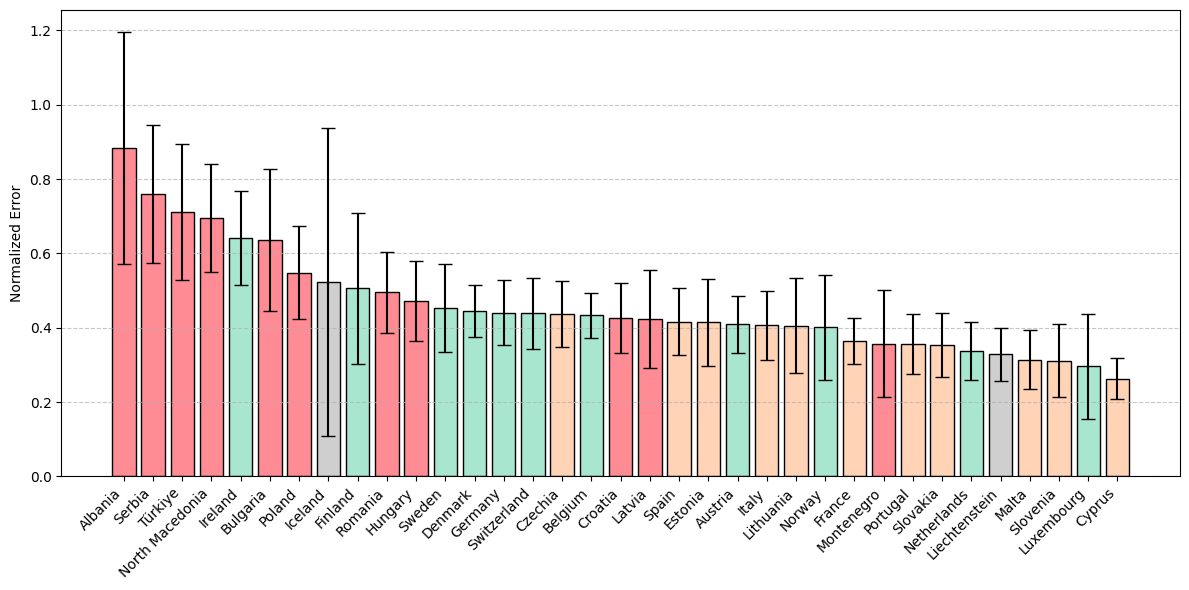
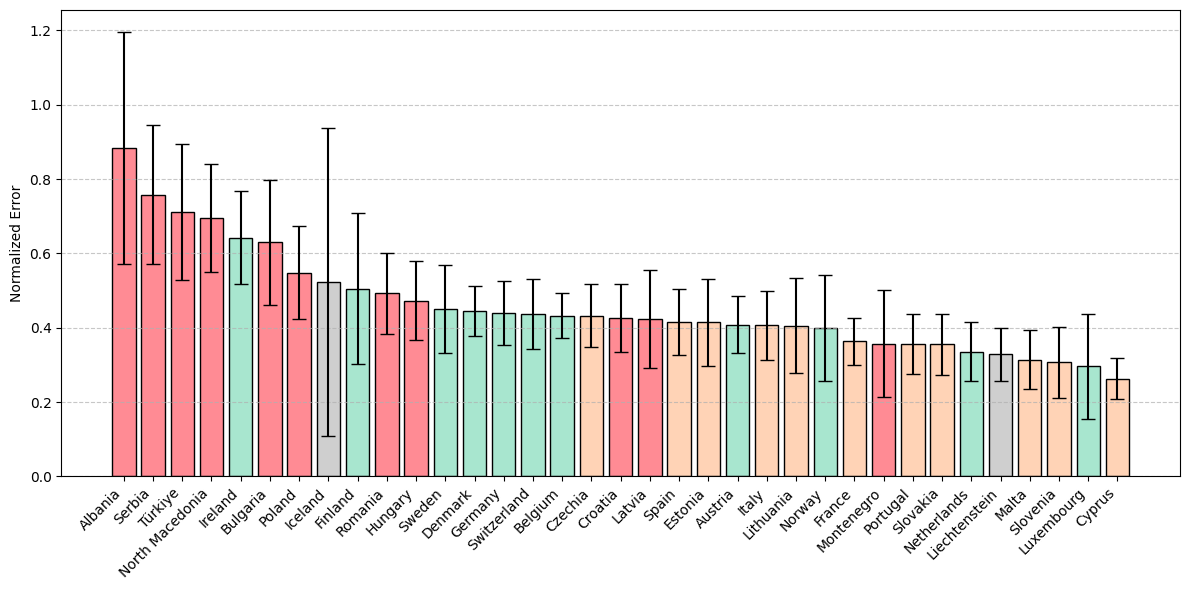
fix prompt povrety: all results have been re-computed

diff --git a/2_llm_prediction_transformers.py b/2_llm_prediction_transformers.py
@@ -29,19 +29,19 @@ tqdm.pandas()
 
 data_dir = "./output"
 eurostat_data_files = [
-    # {
-    #     "indicator": "income",
-    #     "path": f"{data_dir}/eurostat_income_2017.csv",
-    #     "complete_year": "2017",
-    #     "unit": "EUR_HAB"
-    # },
-    # {
-    #     "indicator": "pop_density",
-    #     "path": f"{data_dir}/eurostat_pop_density_2018.csv",
-    #     "complete_year": "2018",
-    #     "unit": "PER_KM2",
-    #     "nan": ":", # null value are ":" and not empty cell
-    # },
+    {
+        "indicator": "income",
+        "path": f"{data_dir}/eurostat_income_2017.csv",
+        "complete_year": "2017",
+        "unit": "EUR_HAB"
+    },
+    {
+        "indicator": "pop_density",
+        "path": f"{data_dir}/eurostat_pop_density_2018.csv",
+        "complete_year": "2018",
+        "unit": "PER_KM2",
+        "nan": ":", # null value are ":" and not empty cell
+    },
     {
         "indicator": "poverty",
         "path": f"{data_dir}/eurostat_poverty_2022.csv",
@@ -49,12 +49,12 @@ eurostat_data_files = [
         "unit": "PC",
         "nan": ":"
     },
-    # {
-    #     "indicator": "age_index",
-    #     "path": f"{data_dir}/eurostat_age_index_2021.csv",
-    #     "complete_year": "2021",
-    #     "unit": "NR"
-    # }
+    {
+        "indicator": "age_index",
+        "path": f"{data_dir}/eurostat_age_index_2021.csv",
+        "complete_year": "2021",
+        "unit": "NR"
+    }
 ]
 
 def prediction(NUTS_ID, country, indicator, year):
@@ -419,33 +419,24 @@ if __name__ == "__main__":
 
         # Absolute
         file_path = Path(f'./output/bash/{indicator}_{year}_nuts_llm_{model_short_name}_absolute.csv')
-        # if file_path.exists():
-        #     print("\t Absolute: already processed")
-        # else:
-        #     df[[f"{indicator}_absolute_predicted", f"{indicator}_absolute_deviation", f"{indicator}_absolute_logprobs", f"{indicator}_absolute_logprobs_deviation"]] = df.progress_apply(lambda row: average_prediction(row, indicator, year), axis=1).apply(pd.Series)
-        #     try :
-        #         df.to_csv(f'./output/bash/{indicator}_{year}_nuts_llm_{model_short_name}_absolute.csv')
-        #     except:
-        #         df.to_csv(f'./output/bash/{indicator}_{year}_nuts_llm_error_on_name.csv')
-        df[[f"{indicator}_absolute_predicted", f"{indicator}_absolute_deviation", f"{indicator}_absolute_logprobs", f"{indicator}_absolute_logprobs_deviation"]] = df.progress_apply(lambda row: average_prediction(row, indicator, year), axis=1).apply(pd.Series)
-        try :
-            df.to_csv(f'./output/bash/{indicator}_{year}_nuts_llm_{model_short_name}_absolute.csv')
-        except:
-            df.to_csv(f'./output/bash/{indicator}_{year}_nuts_llm_error_on_name.csv')
+        if file_path.exists():
+            print("\t Absolute: already processed")
+        else:
+            df[[f"{indicator}_absolute_predicted", f"{indicator}_absolute_deviation", f"{indicator}_absolute_logprobs", f"{indicator}_absolute_logprobs_deviation"]] = df.progress_apply(lambda row: average_prediction(row, indicator, year), axis=1).apply(pd.Series)
+            try :
+                df.to_csv(f'./output/bash/{indicator}_{year}_nuts_llm_{model_short_name}_absolute.csv')
+            except:
+                df.to_csv(f'./output/bash/{indicator}_{year}_nuts_llm_error_on_name.csv')
 
         # Relative
         file_path = Path(f'./output/bash/{indicator}_{year}_nuts_llm_{model_short_name}_relative.csv')
-        # if file_path.exists():
-        #     print("\t Relative: already processed")
-        # else:
-        #     df[[f"{indicator}_relative_predicted", f"{indicator}_relative_deviation", f"{indicator}_relative_logprobs", f"{indicator}_relative_logprobs_deviation"]] = df.progress_apply(lambda row: average_relative_prediction(row, indicator, year), axis=1).apply(pd.Series)
-        #     try :
-        #         df.to_csv(f'./output/bash/{indicator}_{year}_nuts_llm_{model_short_name}_relative.csv')
-        #     except:
-        #         df.to_csv(f'./output/bash/{indicator}_{year}_nuts_llm_error_on_name.csv')
+        if file_path.exists():
+            print("\t Relative: already processed")
+        else:
+            df[[f"{indicator}_relative_predicted", f"{indicator}_relative_deviation", f"{indicator}_relative_logprobs", f"{indicator}_relative_logprobs_deviation"]] = df.progress_apply(lambda row: average_relative_prediction(row, indicator, year), axis=1).apply(pd.Series)
+            try :
+                df.to_csv(f'./output/bash/{indicator}_{year}_nuts_llm_{model_short_name}_relative.csv')
+            except:
+                df.to_csv(f'./output/bash/{indicator}_{year}_nuts_llm_error_on_name.csv')
+
         
-        df[[f"{indicator}_relative_predicted", f"{indicator}_relative_deviation", f"{indicator}_relative_logprobs", f"{indicator}_relative_logprobs_deviation"]] = df.progress_apply(lambda row: average_relative_prediction(row, indicator, year), axis=1).apply(pd.Series)
-        try :
-            df.to_csv(f'./output/bash/{indicator}_{year}_nuts_llm_{model_short_name}_relative.csv')
-        except:
-            df.to_csv(f'./output/bash/{indicator}_{year}_nuts_llm_error_on_name.csv')
